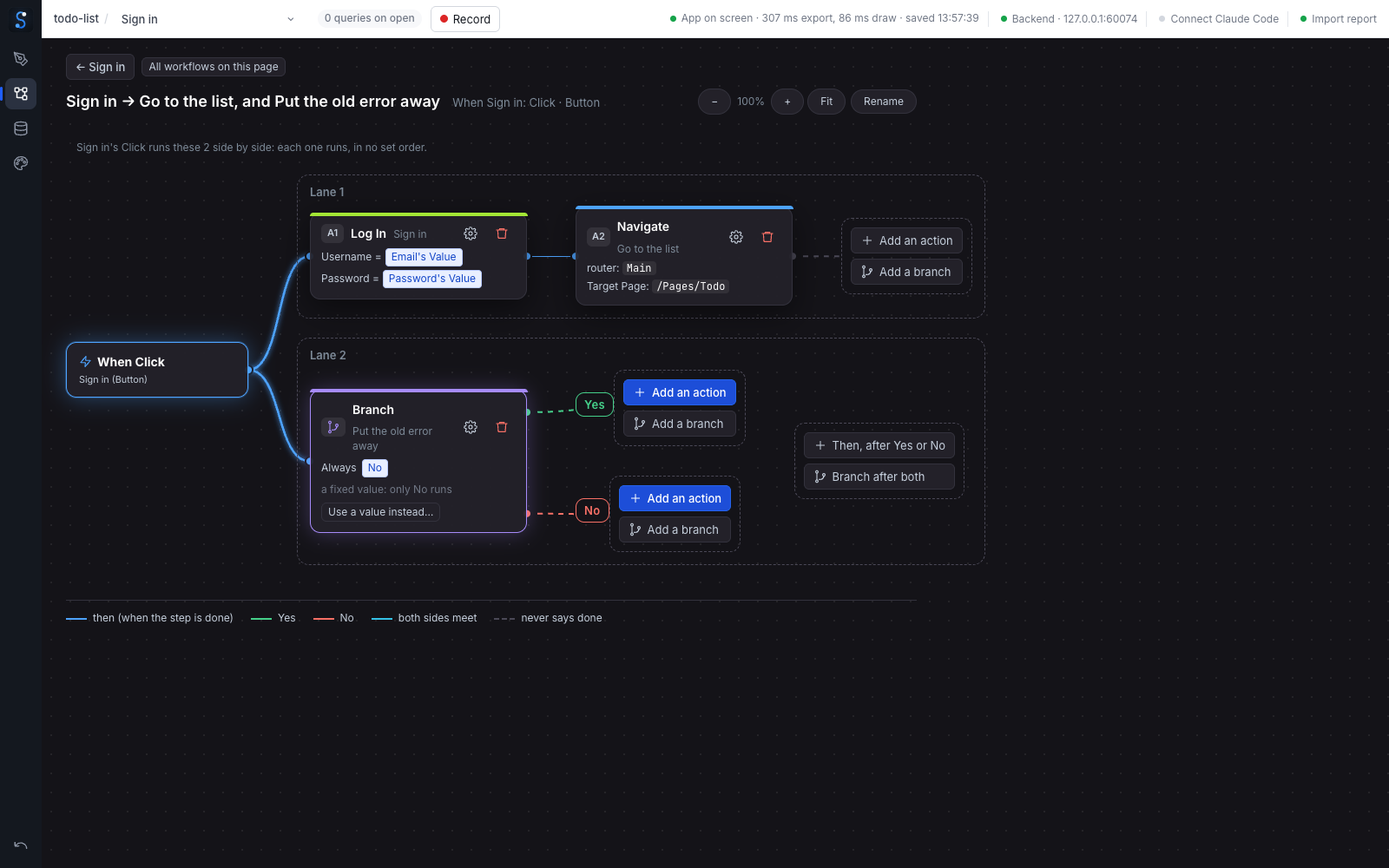
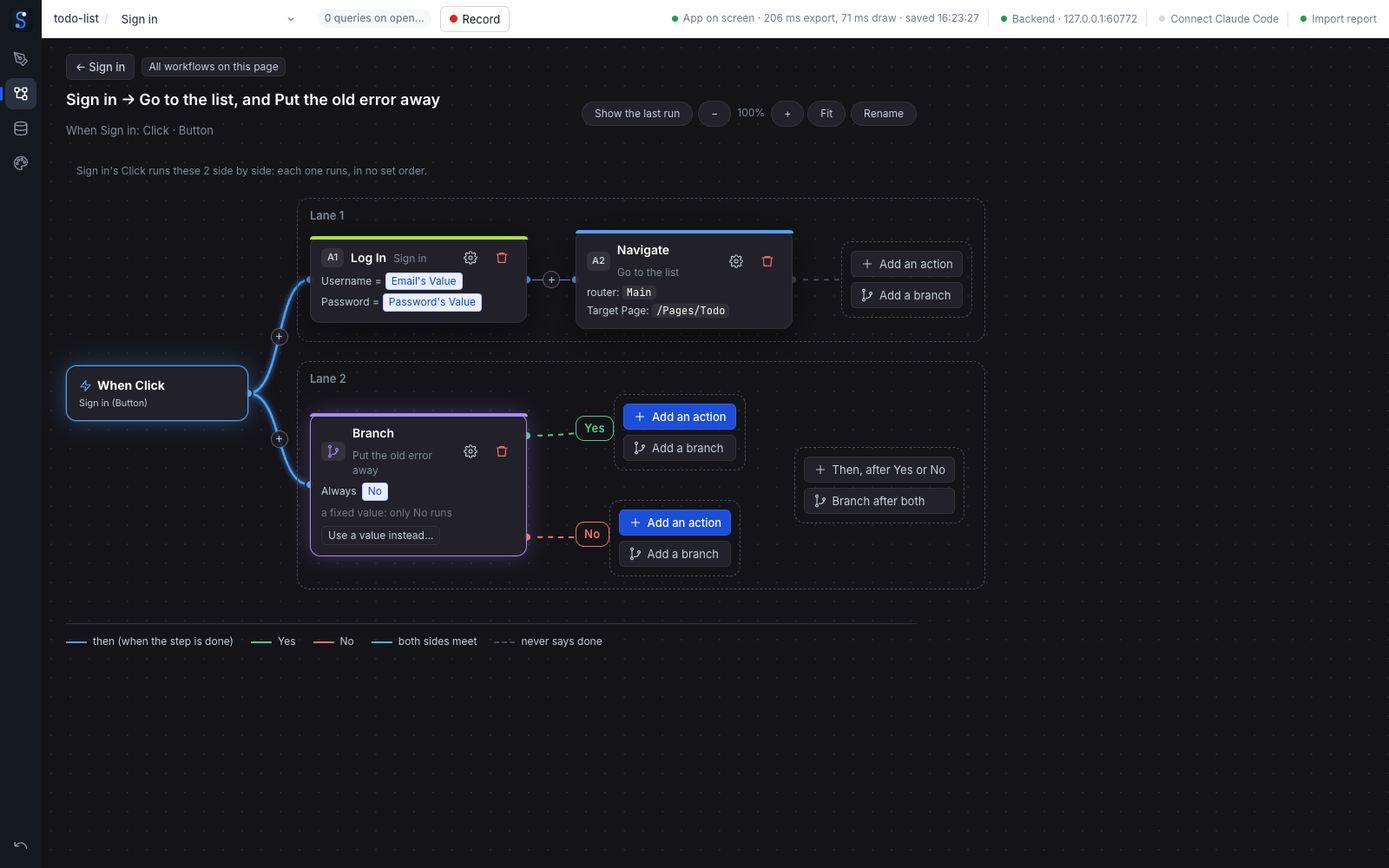
STU-026: the last run lit up, and a "+" on a wire puts a step between two
Show the last run reads the runtime's trace (armed at boot) with the timeline's own
reading of runs (runsOf, moved out of buildTimeline; lastRunOf on top): what ran wears
"ran", the wires it crossed glow and pulse, the rest fades, and the flow says when it
ran, how many steps and which side each branch took. A "+" at the middle of each wire
that is one wire in the graph opens the action menu; the step goes between the two.

check:editor 197/197, check:timeline 48/48, check:app 54/54, check:data 80/80.

diff --git a/editor/studio.html b/editor/studio.html
@@ -518,6 +518,21 @@
   .wf .chip.expr { background: rgba(167,139,250,.14); border-color: rgba(167,139,250,.45); color: #ddd6fe; }
   .flowlegend { display: flex; gap: 20px; align-items: center; flex-wrap: wrap; margin-top: 40px; padding-top: 12px; border-top: 1px solid var(--edge); max-width: 980px; font-size: 12px; color: var(--sub); }
   .flowlegend i { display: inline-block; width: 24px; height: 0; border-top: 2.5px solid; vertical-align: middle; margin-right: 7px; }
+  /* the last run, lit up: what it crossed glows with a white pulse running along it; what it did not run is faded */
+  .wf button.showrun[aria-pressed=true] { background: rgba(69,208,138,.14); border-color: var(--green); color: var(--green); }
+  .flowlegend .lastrun { margin-left: auto; color: var(--dim); }
+  .flowlegend .lastrun.ran { color: var(--green); }
+  .flow.showrun .step:not(.ran), .flow.showrun .evnode:not(.ran), .flow.showrun .joinnote:not(.ran) { opacity: .45; }
+  .flow .step.ran, .flow .evnode.ran { box-shadow: 0 0 0 1.5px var(--green), 0 0 26px rgba(69,208,138,.35); }
+  .flow .step.ran::after, .flow .evnode.ran::after { content: 'ran'; position: absolute; top: -9px; right: 12px; font-size: 10px; font-weight: 700; padding: 1px 7px; border-radius: 8px; background: var(--green); color: #0b2a19; }
+  .flow svg.wires path.pulse { animation: flowpulse .9s linear infinite; }
+  @keyframes flowpulse { to { stroke-dashoffset: -18; } }
+  @media (prefers-reduced-motion: reduce) { .flow svg.wires path.pulse { animation: none; } }
+  /* a "+" on a wire puts a step between the two it joins */
+  .flow .wireplus { position: absolute; left: 0; top: 0; z-index: 2; pointer-events: none; }
+  .wf .flow .wireplus button { position: absolute; pointer-events: auto; width: 20px; height: 20px; padding: 0; margin: -10px 0 0 -10px; border-radius: 50%; display: grid; place-items: center; background: #1c1b22; border: 1.5px solid #6b6878; color: var(--sub); opacity: .85; }
+  .wf .flow .wireplus button:hover { opacity: 1; border-color: var(--blue); color: var(--fg); transform: scale(1.15); }
+  .wf .flow .wireplus button svg.i { width: 11px; height: 11px; }
 
   /* ---- popovers (the action picker, the source picker, the composer) ---- */
   .menu { position: fixed; background: var(--panel); border: 1px solid var(--line-2); border-radius: var(--r-lg); box-shadow: var(--shadow); padding: 6px; z-index: 50; min-width: 300px; max-width: 420px; max-height: min(64vh, 560px); overflow: auto; }
@@ -828,7 +843,7 @@ import { OPERATORS, createEdits, updateEdits, removeEdits, readItems, readFrom, 
 import * as F from './fields.js';
 import { typesOf, driftOf, projectColumn, cellWords, editText, toWire, searchWhere, rowLabel, pageWords, rowsQuery } from './data.mjs';
 import { fieldReaders, typeReaders, renameField, renameType, appFields } from './rename.mjs';
-import { LANES, buildTimeline, msText, shotAt, stepValues } from './timeline.mjs';
+import { LANES, buildTimeline, lastRunOf, msText, shotAt, stepValues } from './timeline.mjs';
 import { runOver, lastActivity, watchSignals, runtimeTimers, runTimers } from './runwatch.mjs';
 
 const $ = (id) => document.getElementById(id);
@@ -3455,7 +3470,8 @@ const SVG_NS = 'http://www.w3.org/2000/svg';
 const FLOW = { then: '#4da3ff', yes: '#45d08a', no: '#f97066', join: '#35c3e8', dead: '#4a4856', offer: '#4a4856' };
 const KIND_COLOUR = { nav: '#4da3ff', db: '#fdb022', state: '#f776c4', user: '#a3e635', code: '#7d8a98', bolt: '#fb923c', page: '#c084fc', branch: '#a78bfa' };
 let flowWires = [], flowRO = null;
-const wire = (src, to, kind = src?.kind, dashed = false) => { if (src) flowWires.push({ from: src.el, port: src.port, to, kind, dashed }); };
+/** `edge`: the graph wire it draws ({ from: { node, port }, to: { node, port } }), where a step can go between the two. */
+const wire = (src, to, kind = src?.kind, dashed = false, edge = null) => { if (src) flowWires.push({ from: src.el, port: src.port, to, kind, dashed, edge }); };
 /** A wire to where a step could go: grey, or a side's own colour when it leaves a branch with nothing on that side yet. */
 const offer = (src, to) => wire(src, to, src?.kind === 'dead' ? 'dead' : src && src.port !== 'out' ? src.kind : 'offer', true);
 /** A Go to page with no page never says Done (RouterNavigate settles only on arriving): what follows it never runs. */
@@ -3471,7 +3487,7 @@ function renderWorkflow() {
   if (cardBack) wf.append(h('div', { class: 'cardnav' }, h('button', { class: 'quiet back', title: 'Back to the element in Design (Esc)', onclick: backFromCard }, '← ', labelOf(cardBack.node)),
     h('button', { class: 'quiet tiny', title: 'Every workflow on this page, listed', onclick: () => { cardBack = null; renderWorkflow(); } }, 'All workflows on this page')));
   wf.append(h('div', { class: 'event-card' }, h('div', { class: 'ic' }, icon('bolt')), h('div', { class: 'named' }, cardTitle(ev), h('small', {}, `${eventTitle(ev)} · ${typeName(byId[ev.node].type)}`)),
-    h('div', { style: 'margin-left:auto;display:flex;gap:6px;align-items:center' }, h('div', { class: 'zoom' }, h('button', { title: 'Smaller', onclick: () => zoomFlow(-0.1) }, '−'), h('span', { class: 'zoomval' }), h('button', { title: 'Bigger', onclick: () => zoomFlow(0.1) }, '+'), h('button', { title: 'Fit the whole workflow in view', onclick: () => { flowZoom = null; fitFlow(); } }, 'Fit')), isRenaming(ev) ? null : h('button', { class: 'quiet tiny rename', title: 'Name this workflow yourself; an empty name gives it back to its steps', onclick: () => { renaming = `${ev.node}.${ev.port}`; renderWorkflow(); } }, 'Rename'), eventSteps(ev) ? null : h('button', { class: 'quiet', onclick: () => { const i = draftEvents.findIndex((d) => d.node === ev.node && d.port === ev.port); if (i >= 0) draftEvents.splice(i, 1); selEvent = null; renderWorkflow(); } }, 'Discard'))));
+    h('div', { style: 'margin-left:auto;display:flex;gap:6px;align-items:center' }, h('button', { class: 'quiet tiny showrun', 'aria-pressed': showRun, title: 'Light up what this workflow did the last time it ran in the app: the wires it crossed and the steps it ran', onclick: () => toggleLastRun() }, showRun ? 'Hide the last run' : 'Show the last run'), h('div', { class: 'zoom' }, h('button', { title: 'Smaller', onclick: () => zoomFlow(-0.1) }, '−'), h('span', { class: 'zoomval' }), h('button', { title: 'Bigger', onclick: () => zoomFlow(0.1) }, '+'), h('button', { title: 'Fit the whole workflow in view', onclick: () => { flowZoom = null; fitFlow(); } }, 'Fit')), isRenaming(ev) ? null : h('button', { class: 'quiet tiny rename', title: 'Name this workflow yourself; an empty name gives it back to its steps', onclick: () => { renaming = `${ev.node}.${ev.port}`; renderWorkflow(); } }, 'Rename'), eventSteps(ev) ? null : h('button', { class: 'quiet', onclick: () => { const i = draftEvents.findIndex((d) => d.node === ev.node && d.port === ev.port); if (i >= 0) draftEvents.splice(i, 1); selEvent = null; renderWorkflow(); } }, 'Discard'))));
   flowWires = [];
   const flow = h('div', { class: 'flow' });
   flow.append(document.createElementNS(SVG_NS, 'svg')); flow.firstChild.setAttribute('class', 'wires');
@@ -3486,12 +3502,72 @@ function renderWorkflow() {
     flow.append(h('div', { class: 'lanesrow' }, evnode, grid));
   }
   wf.append(h('div', { class: 'flowarea' }, flow));
-  wf.append(h('div', { class: 'flowlegend' }, ...[['then', 'then (when the step is done)'], ['yes', 'Yes'], ['no', 'No'], ['join', 'both sides meet'], ['dead', 'never says done']].map(([k, w]) => h('span', {}, h('i', { style: `border-color:${FLOW[k]}${k === 'dead' ? ';border-top-style:dashed' : ''}` }), w))));
+  wf.append(h('div', { class: 'flowlegend' }, ...[['then', 'then (when the step is done)'], ['yes', 'Yes'], ['no', 'No'], ['join', 'both sides meet'], ['dead', 'never says done']].map(([k, w]) => h('span', {}, h('i', { style: `border-color:${FLOW[k]}${k === 'dead' ? ';border-top-style:dashed' : ''}` }), w)), h('span', { class: 'lastrun' })));
   main.append(wf);
   flowRO?.disconnect();
   flowRO = new ResizeObserver(() => fitFlow());
   for (const el of [main, flow, ...flow.querySelectorAll('.step, .addrow, .evnode')]) flowRO.observe(el);
+  if (showRun) runLit = readLastRun(ev);
+  applyRun();
   fitFlow();
+}
+/* ---- STU-026: the last run, lit up. Read off the runtime's trace (armed when the app opens, nothing to press first), with
+   the timeline's own reading of runs (./timeline.mjs runsOf): this card's latest run, every other card on the component
+   taken into account so a step another card ran is not this one's. Read again while shown, when the trace has more ---- */
+let showRun = false, runLit = null, runPoll = null, runSeen = null;
+function toggleLastRun() {
+  showRun = !showRun; runLit = null; runSeen = null;
+  clearInterval(runPoll); runPoll = showRun ? setInterval(pollLastRun, 400) : null;
+  renderWorkflow();
+}
+const appContext = () => { try { return preview.frame.contentWindow.Noodl.Navigation._noodlRuntime.context; } catch { return null; } };
+/** This card's last run: { run, at } (`at` the wall clock it started), or { none } saying why there is none. */
+function readLastRun(ev) {
+  const ctx = appContext();
+  if (!ctx?.getTraceEvents) return { none: 'The app is not open, so there is no run to show.' };
+  const trace = ctx.getTraceEvents(0) || [];
+  runSeen = { ctx, seq: trace.at(-1)?.seq ?? 0 };
+  const cards = events().map((e) => ({ node: e.node, port: e.port, reach: new Set(reachOf(e).map((n) => n.id)) }));
+  const run = lastRunOf(trace, cards, ev);
+  if (!run) return { none: 'Not run since the app opened: use it in the app and its run lights up here.' };
+  let at = null; try { at = new Date(Date.now() - (preview.frame.contentWindow.performance.now() - run.t)); } catch { /* the frame went */ }
+  return { run, at };
+}
+function pollLastRun() {
+  if (!showRun || tab !== 'workflow' || !selEvent || !$('steps').querySelector('.flow')) return;
+  const ctx = appContext();
+  // a new copy of the app (a rebuild) has a trace of its own; the same one is read again only when it has more
+  if (ctx && runSeen?.ctx === ctx && !(ctx.getTraceEvents(runSeen.seq) || []).length) return;
+  if (!ctx && runLit?.none && !runSeen) return;
+  const next = readLastRun(selEvent);
+  if (next.run?.seq === runLit?.run?.seq && !!next.none === !!runLit?.none) return;
+  runLit = next; applyRun(); drawWires();
+}
+/** Marks what the run ran (the event, its steps, the point both sides of a branch met) and says it under the flow. */
+function applyRun() {
+  const flow = $('steps').querySelector('.flow'); if (!flow) return;
+  const run = showRun ? runLit?.run : null;
+  flow.classList.toggle('showrun', !!run);
+  for (const el of flow.querySelectorAll('.step[data-id], .evnode, .joinnote')) {
+    const id = el.classList.contains('evnode') ? selEvent?.node : el.dataset.join ?? el.dataset.id;
+    el.classList.toggle('ran', !!run && run.ran.has(id));
+  }
+  const say = $('steps').querySelector('.flowlegend .lastrun'); if (!say) return;
+  say.classList.toggle('ran', !!run);
+  if (!showRun) { say.textContent = ''; return; }
+  if (!run) { say.textContent = runLit?.none ?? ''; return; }
+  const sides = Object.values(run.sides).map((s) => (s === 'yes' ? 'Yes' : 'No'));
+  say.textContent = `● Last run${runLit.at ? ` at ${runLit.at.toLocaleTimeString()}` : ''} · ${run.steps} step${run.steps === 1 ? '' : 's'}${sides.length ? ` · took ${sides.join(', then ')}` : ''}`;
+}
+/** Did the last run cross this drawn wire? Null when no run is shown. */
+function wireRan(w) {
+  const run = showRun ? runLit?.run : null; if (!run) return null;
+  const id = (el) => (el.classList.contains('evnode') ? selEvent?.node : el.dataset.join ?? el.dataset.id);
+  const a = id(w.from), b = id(w.to);
+  if (!a || !b) return false;
+  // out of the point both sides meet: the run reached the step they meet at
+  if (w.from.dataset.join) return run.ran.has(b);
+  return run.edges.has(`${a}>${b}`);
 }
 /** The flow at its zoom: fitted to the panel's width (55%–100%) until someone zooms; the area takes the scaled size, so
     the panel scrolls to whatever does not fit. */
@@ -3514,6 +3590,10 @@ function drawWires() {
   svg.setAttribute('width', flow.offsetWidth); svg.setAttribute('height', flow.offsetHeight);
   svg.innerHTML = '<defs><filter id="flowglow" x="-20%" y="-50%" width="140%" height="200%"><feGaussianBlur stdDeviation="3" result="b"/><feMerge><feMergeNode in="b"/><feMergeNode in="SourceGraphic"/></feMerge></filter></defs>';
   const add = (tag, attrs) => { const e = document.createElementNS(SVG_NS, tag); for (const [k, v] of Object.entries(attrs)) e.setAttribute(k, v); svg.append(e); return e; };
+  let plus = flow.querySelector('.wireplus');
+  if (!plus) { plus = h('div', { class: 'wireplus' }); flow.append(plus); }
+  plus.innerHTML = '';
+  const pulses = [];
   for (const w of flowWires) {
     if (!w.from.isConnected || !w.to.isConnected) continue;
     const sc = (r) => ({ left: (r.left - R.left) / z, right: (r.right - R.left) / z, top: (r.top - R.top) / z, height: r.height / z });
@@ -3522,11 +3602,23 @@ function drawWires() {
     const x1 = a.right, y1 = a.top + (w.port === 'yes' ? Math.min(26, a.height / 3) : w.port === 'no' ? a.height - Math.min(22, a.height / 3) : a.height / 2);
     const x2 = b.left, y2 = b.top + b.height / 2, dx = Math.max(40, (x2 - x1) / 2);
     const colour = FLOW[w.kind] ?? FLOW.then, faint = w.dashed || w.kind === 'dead' || w.kind === 'offer';
-    add('path', { d: `M${x1},${y1} C${x1 + dx},${y1} ${x2 - dx},${y2} ${x2},${y2}`, fill: 'none', stroke: colour, 'stroke-width': faint ? 2 : 2.5, ...(faint ? { 'stroke-dasharray': '6 6' } : { filter: 'url(#flowglow)' }),
-      'data-kind': w.kind, 'data-from': w.from.dataset.id ?? w.from.className, 'data-to': w.to.dataset.id ?? w.to.className.split(' ')[0] });
-    add('circle', { cx: x1, cy: y1, r: 5, fill: colour, stroke: '#141318', 'stroke-width': 2 });
-    if (!faint) add('circle', { cx: x2, cy: y2, r: 5, fill: colour, stroke: '#141318', 'stroke-width': 2 });
+    const ran = wireRan(w), d = `M${x1},${y1} C${x1 + dx},${y1} ${x2 - dx},${y2} ${x2},${y2}`;
+    add('path', { d, fill: 'none', stroke: colour, 'stroke-width': faint ? 2 : ran ? 3.5 : 2.5, ...(faint ? { 'stroke-dasharray': '6 6' } : { filter: 'url(#flowglow)' }),
+      ...(ran === false ? { opacity: 0.3 } : {}), ...(ran ? { 'data-ran': '1' } : {}),
+      'data-kind': w.kind, 'data-from': w.from.dataset.id ?? w.from.className.split(' ')[0], 'data-to': w.to.dataset.id ?? w.to.className.split(' ')[0] });
+    add('circle', { cx: x1, cy: y1, r: 5, fill: colour, stroke: '#141318', 'stroke-width': 2, ...(ran === false ? { opacity: 0.3 } : {}) });
+    if (!faint) add('circle', { cx: x2, cy: y2, r: 5, fill: colour, stroke: '#141318', 'stroke-width': 2, ...(ran === false ? { opacity: 0.3 } : {}) });
+    if (ran) pulses.push(d);
+    // the curve's middle (t = ½), where a "+" puts a step between the two it joins
+    if (w.edge && w.kind !== 'dead') {
+      const mx = (x1 + 3 * (x1 + dx) + 3 * (x2 - dx) + x2) / 8, my = (y1 + y2) / 2;
+      const { from, to } = w.edge;
+      plus.append(h('button', { style: `left:${mx}px;top:${my}px`, 'data-from': from.node, 'data-to': to.node, title: `Put a step here, between ${from.node === selEvent?.node ? `the ${portLabel(byId[from.node], 'output', from.port)}` : labelOf(from.node)} and ${labelOf(to.node)}`,
+        onclick: (e) => addActionMenu(e, { node: from.node, port: from.port, before: to }) }, icon('plus')));
+    }
   }
+  // the run's pulse, a white dash running along each wire it crossed, over the wires (not counted among them: no data-kind)
+  for (const d of pulses) add('path', { d, fill: 'none', stroke: '#fff', 'stroke-width': 2, 'stroke-dasharray': '2 16', opacity: 0.9, class: 'pulse' });
 }
 let stepCounter = 0;
 function renderChain(into, steps, from, startN, prefix = '', before = null, src = null, lead = null) {
@@ -3542,7 +3634,8 @@ function renderChain(into, steps, from, startN, prefix = '', before = null, src 
     const card = stepCard(s, `${prefix}${n}`);
     if (joined) card.classList.add('joined');
     col.append(card);
-    wire(end, card);
+    // a "+" on it puts a step between; not on the wire on from where both sides meet (it stands for two wires)
+    wire(end, card, undefined, false, joined ? null : { from: s.from, to: { node: s.id, port: s.via } });
     joined = false;
     if (s.branches) {
       link();
@@ -3559,7 +3652,7 @@ function renderChain(into, steps, from, startN, prefix = '', before = null, src 
       if (s.rejoin) {
         // the two wires meet here and go on as one to the step both sides reach
         link();
-        const note = h('div', { class: 'joinnote', 'data-id': 'join' }, icon('branch'), 'Then, after Yes or No');
+        const note = h('div', { class: 'joinnote', 'data-id': 'join', 'data-join': s.rejoin.id }, icon('branch'), 'Then, after Yes or No');
         col.append(note);
         for (const e of [ends.yes, ends.no]) if (e) wire(e, note, e.kind === 'dead' ? 'dead' : e.el === card ? e.kind : 'join');
         end = { el: note, port: 'out', kind: 'join' }; joined = true;
@@ -3690,7 +3783,8 @@ function addActionMenu(e, from) {
 }
 /** Which page data item the step runs again: a wire into its Do, never a second query (STU-012). */
 function refreshMenu(e, from) {
-  if (from.before || from.also) return toast('A refresh ends the workflow: add it after the steps both sides go on to.');
+  if (from.also) return toast('A refresh ends the workflow: add it after the steps both sides go on to.');
+  if (from.before) return toast('A refresh ends the workflow, so it cannot go between two steps: add it at the end.');
   if (!pageItems.length) return toast('This page has no page data to refresh: make it in Design → Page data.');
   const menu = popover(e);
   menu.append(h('div', { class: 'h' }, 'Refresh which page data?'));
@@ -3730,7 +3824,7 @@ function addAction(type, from, params = {}, label) {
   if (!events().some((ev) => ev.node === selEvent.node && ev.port === selEvent.port)) draftEvents.length = 0;
   if (type !== 'Condition') openSteps.add(id);
   renderWorkflow();
-  toast(type === 'Condition' ? 'Added a branch: set its condition, then add actions under Yes and No' : `Added ${label || typeName(type)} after ${labelOf(from.node)}`);
+  toast(type === 'Condition' ? 'Added a branch: set its condition, then add actions under Yes and No' : `Added ${label || typeName(type)} ${from.before && !from.also ? `between ${labelOf(from.node)} and ${labelOf(from.before.node)}` : `after ${labelOf(from.node)}`}`);
 }
 $('newevent').onclick = (e) => {
   closeMenu();

diff --git a/docs/SCOPE.md b/docs/SCOPE.md
@@ -887,7 +887,7 @@ tab already reads it that way). A badge is "this visual node has a wired signal 
 | STU-023 | **Names from steps.** | a card with no name reads its steps; a renamed card keeps its name |
 | STU-024 | **The importer merges split workflows** into one card per event. Where the conditions are exact opposites (A / not A) they become one Yes/No branch. Where they overlap and both can run, they stay as **two lanes that run side by side**, because folding them into either/or would change what the app does. | the real app's 16 split elements become 16 cards; a fixture with overlapping conditions keeps both lanes and both still run |
 | STU-025 | **Rejoin** (R4, taken 2026-10-23): after a branch, both sides continue into one shared next step | done (s20): made from the card, drawn once after the branch, gated in the app |
-| STU-026 | **The flow, drawn** (Richard, 2026-10-23, s21): a workflow drawn as NodeGX draws, in the backend map's look: steps as nodes on a dark canvas, left to right, coloured wires (then, Yes, No, where both sides meet), the last run lit up; Bubble's landmarks kept ("When … is clicked", Step 1, 2, "Only when") | done (s21): every card drawn so, its edits unchanged; a rejoin is two wires meeting, in view at Fit; the last run lit up is not built yet. Mock: [look/s21-flow-mock.png](look/s21-flow-mock.png) |
+| STU-026 | **The flow, drawn** (Richard, 2026-10-23, s21): a workflow drawn as NodeGX draws, in the backend map's look: steps as nodes on a dark canvas, left to right, coloured wires (then, Yes, No, where both sides meet), the last run lit up; Bubble's landmarks kept ("When … is clicked", Step 1, 2, "Only when") | done (s21): every card drawn so, its edits unchanged; a rejoin is two wires meeting, in view at Fit; the last run lit up and a "+" on a wire (s22). Mock: [look/s21-flow-mock.png](look/s21-flow-mock.png) |
 
 **Done (STU-020 and STU-021, 2026-10-19, s8).** An element with a workflow wears a **⚡** in Design: on the canvas, in
 its top right corner (Design mode only, not while using the app), and on its row of the element list (a row that folds
@@ -1532,9 +1532,24 @@ Card mode fills the window (it had `.card`'s 1100 px frame). `check:editor` 193/
 the R4 card, left to right; at Fit the step both sides meet at is in view, which the first build failed with settings
 open: it was past the panel's edge); `check:app` 46/46, `check:data` 80/80, `check:timeline` 46/46. Pictures:
 [look/s2-workflow-rejoin.png](look/s2-workflow-rejoin.png), [look/s2-workflow-card.png](look/s2-workflow-card.png)
-(lanes), [look/s2-workflow-branch.png](look/s2-workflow-branch.png). **Not built:** the last run lit up (the mock's
-*Show the last run*; the trace is there, as the timeline reads it); dragging nodes (the layout is the chain's); a "+"
-on a wire to put a step between two.
+(lanes), [look/s2-workflow-branch.png](look/s2-workflow-branch.png). **Not built:** dragging nodes (the layout is the
+chain's).
+**Done (s22): the last run lit up, and a "+" on a wire.** *Show the last run* (beside the zoom) reads the runtime's
+trace, armed since the app opened (no Record needed), with the timeline's own reading of runs (`runsOf`, moved out of
+`buildTimeline` in timeline.mjs; `lastRunOf` on top of it, every card on the component passed so a step another card
+ran is not this one's). What ran wears a green *ran* badge, every wire it crossed glows thicker with a white pulse
+running along it, the rest fades; under the flow: *Last run at 16:17:10 · 3 steps · took Yes*, or why there is none
+(the app not open; not run since the app opened). While shown it reads the trace again every 400 ms, and only when
+the trace has grown or the app was rebuilt. A "+" sits at the middle of every wire that is one wire in the graph (the
+event's, a step's Done, a branch's Yes and No); it opens the action menu and the step goes between the two
+(`addAction`'s `before`, as R4 already used). Not on a "never says done" wire, nor on the wire on from where both
+sides meet (it stands for two). A refresh is refused there: it ends the workflow. `check:editor` 197/197 (4 new, on the
+R4 card after its Yes run in the app: lit exactly the four wires it crossed and its three steps, No's dark, "3 steps ·
+took Yes"; hidden, nothing lit; a "+" on the click's wire puts a Set between the click and the branch, drawn first;
+deleting it heals). First run 196/197: the event node's wire read `data-from="evnode ran"` (the whole class name);
+it now takes the first class, as `data-to` did. `check:timeline` 48/48 (2 new fixtures: the latest run, not the No
+before it; another card's run through a shared step is not it), `check:app` 54/54, `check:data` 80/80. No mutant run.
+Picture: [look/s2-workflow-lastrun.png](look/s2-workflow-lastrun.png).
 
 **Taken.** R4 (Richard, 2026-10-23): after a branch, both sides may rejoin into one next step. His leaning first:
 *"Rejoining would be great, like n8n style, but hard to manage maybe?"*; then, asked again in s20: *"Yep for R4."*

diff --git a/docs/NEXT-SESSION-PROMPT.md b/docs/NEXT-SESSION-PROMPT.md
@@ -51,9 +51,18 @@ tabs concept… that would be a solution and also amazing."* Mock shown: *"It lo
   and takes no input (the header's Publish silently did nothing until this). Picture: [look/stu-009-tabs.png](look/stu-009-tabs.png),
   composed from the strip's and the tab's own CDP screenshots (no screen capture).
 
+**s22 (2026-10-23, same day): STU-026's last run lit up, and a "+" on a wire** (SCOPE, STU-026 "Done (s22)").
+*Show the last run* beside the zoom: the trace (armed at boot, no Record) read by the timeline's own `runsOf` (moved
+out of `buildTimeline`) and `lastRunOf`; what ran wears *ran*, the wires it crossed glow and pulse, the rest fades,
+"Last run at … · 3 steps · took Yes" under the flow. A "+" at the middle of each one-wire-in-the-graph wire puts a step
+between (`addAction`'s `before`). Gates on the s22 tree: `check:editor` **197/197**, `check:timeline` **48/48**,
+`check:app` 54/54, `check:data` 80/80. Committed, **not pushed** (ask first). Picture:
+[look/s2-workflow-lastrun.png](look/s2-workflow-lastrun.png); the three s2-workflow-{branch,card,rejoin} pictures were
+retaken (they show the "+").
+
 Next buildable, in order:
-0. STU-026's last run lit up (the mock's *Show the last run*: the runtime trace, as the timeline reads it), and a "+"
-   on a wire to put a step between two; STU-009 on Windows / Linux in the package workflow (only macOS was run).
+0. STU-009 on Windows / Linux in the package workflow (only macOS was run). STU-026's last left: dragging nodes; the
+   lit run in the timeline's own card link (open the card from a timeline row with its run shown).
 1. When NodeGX publishes a release with BACKENDPUBLIC: bump the pins, `npm run vendor`, every gate. Check npm first
    (`npm view @nodegx/preview versions`).
 2. From "Not to forget": a step's In list names a record's data type by its parameter (`collectionName "Task"`).
@@ -67,8 +76,8 @@ The M4 timeline's remaining gap (overlapping runs) waits on NodeGX's trace `caus
 Waiting on Richard (ask in plain words):
 - What he made of docs/look/s2-workflow-rejoin.png (opened in Preview for him in s21) and the five from s20.
 - The five notarisation secrets: "I'll get the secrets for you" (s21).
-- His look at the drawn flow in the app (docs/look/s2-workflow-rejoin.png, s2-workflow-card.png) and at the tabs
-  (docs/look/stu-009-tabs.png).
+- His look at the drawn flow in the app (docs/look/s2-workflow-rejoin.png, s2-workflow-card.png), the lit last run
+  (s2-workflow-lastrun.png) and at the tabs (docs/look/stu-009-tabs.png).
 - **His idea (s21): "Window ↗" in the conversation opening the desktop app when it is installed, not the browser.**
   Not built; proposed: serve.mjs (local) launches the app with the project folder, a `nodegx-studio://` scheme for
   links from elsewhere, the hold passes to the desktop window. His answer to "what if the app already shows another
